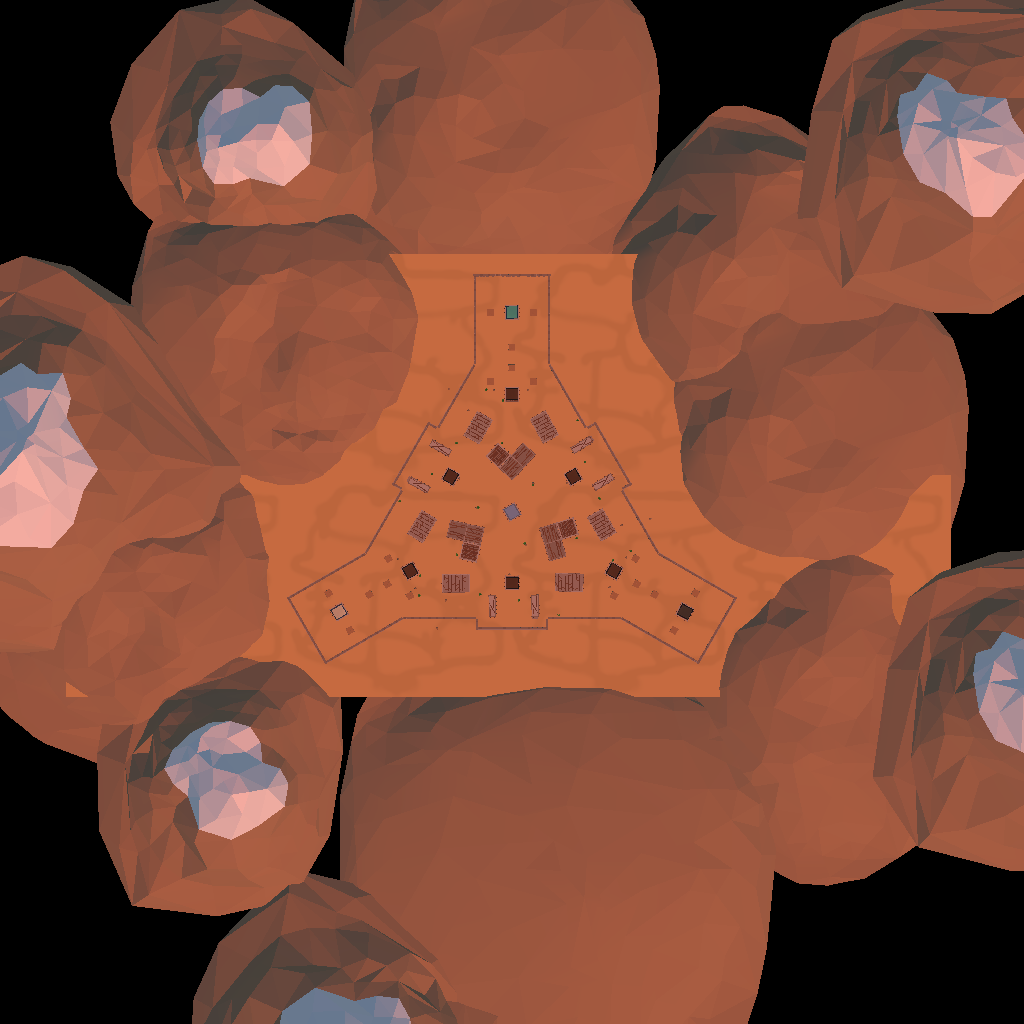
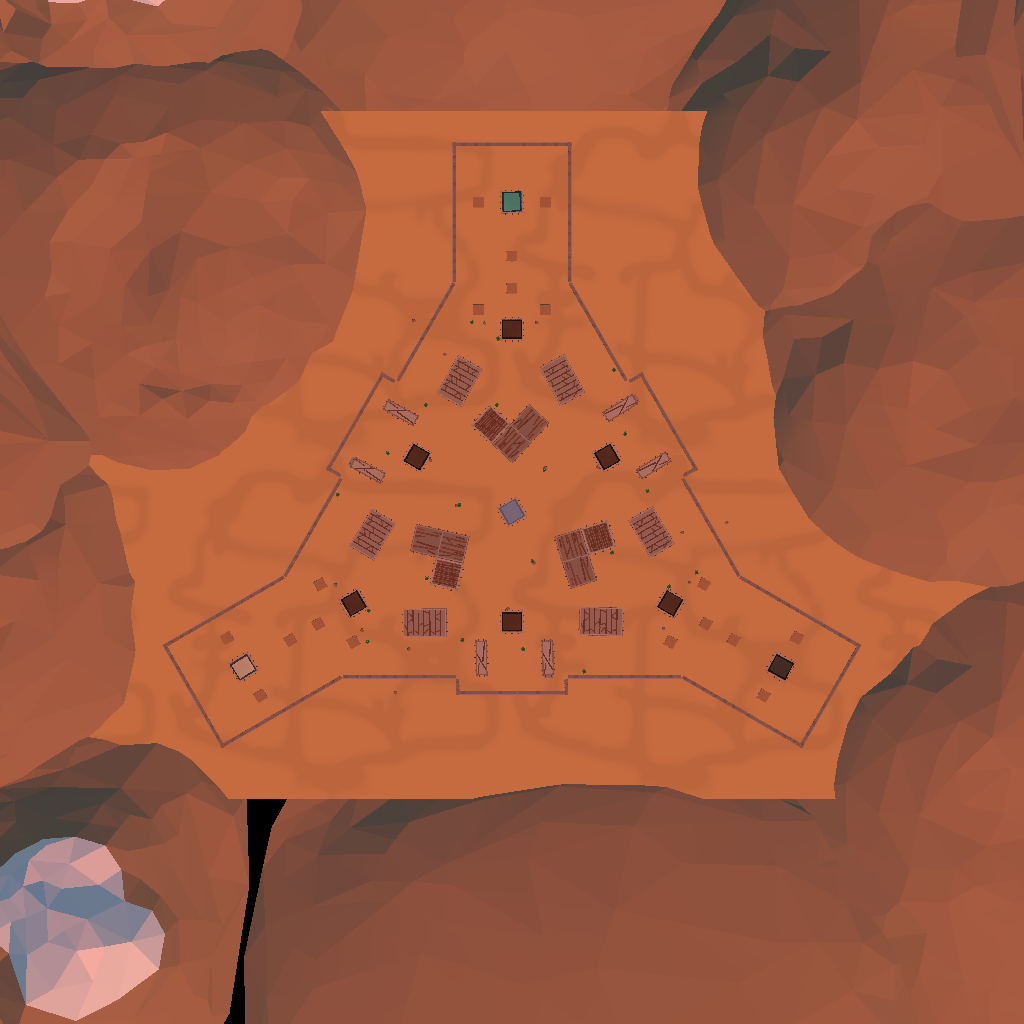
fix(ui): correct the triangular mask's sign, drop the round backdrop (review fix, 2026-09-17)
- MinimapLayout.TriangleCircumradius used +d_i (the vertex direction itself) as the constraint normal; the correct
  outward normal of the edge opposite vertex i is -d_i. The old sign let a point near a vertex force R to roughly
  double what the triangle actually needed, cramming the whole arena into the middle. Tests fixed to pin the
  correct sign (confirmed red under the old sign, green under the new).
- MinimapView no longer draws a round Frame disc behind the triangular mask - nothing shows outside the triangle
  now, only the triangle window and its EdgeTriangle edge.
- Re-baked: MinimapConfig.worldSizeMetres 295.99 -> 190.62 m (triangle circumradius 95.31 m; worldCentre and
  arenaImage GUID unchanged).

diff --git a/Assets/Tests/MinimapLayoutTests.cs b/Assets/Tests/MinimapLayoutTests.cs
@@ -128,35 +128,36 @@ namespace Overpower.Tests
         };
 
         [Test]
-        public void AKnownEquilateralCaseMatchesHandMaths()
+        public void AVertexDirectionPointNeedsRadiusEqualToItsDistance()
         {
-            // A single point straight along vertex 0's own direction, at distance 10: the worst-case reach is along
-            // n0 (dot = 10; dot with n1/n2 is -5), so R = 2*10 + margin.
-            var points = new List<Vector2> { new Vector2(0f, 10f) };
-            Assert.AreEqual(20f, MinimapLayout.TriangleCircumradius(points, EquilateralDirections, 0f), 1e-3f);
-            Assert.AreEqual(24f, MinimapLayout.TriangleCircumradius(points, EquilateralDirections, 4f), 1e-3f);
+            // A point exactly at vertex 0's own direction, distance D out, is the vertex itself: R must reach
+            // exactly D, no more (review fix, 2026-09-17 - the edge opposite a vertex has OUTWARD normal -d_i, not
+            // +d_i; the old sign made this point read as forcing R = 2D instead, twice too big).
+            const float d = 10f;
+            var points = new List<Vector2> { new Vector2(0f, d) };
+            Assert.AreEqual(d, MinimapLayout.TriangleCircumradius(points, EquilateralDirections, 0f), 1e-3f);
+            Assert.AreEqual(d + 4f, MinimapLayout.TriangleCircumradius(points, EquilateralDirections, 4f), 1e-3f);
         }
 
         [Test]
-        public void APointExactlyOnAnEdgeStillMatchesItsNormal()
+        public void AnOppositePointNeedsRadiusTwiceItsDistance()
         {
-            // A point sitting exactly on the (extended) edge opposite vertex 0 - i.e. at inradius distance along n0,
-            // zero along the edge's own direction - still measures correctly via the plain dot product.
-            const float inradius = 6f;
-            Vector2 edgeDirection = new Vector2(1f, 0f); // perpendicular to n0 = (0,1)
-            var points = new List<Vector2> { new Vector2(edgeDirection.x * 3f, inradius) };
-            Assert.AreEqual(12f, MinimapLayout.TriangleCircumradius(points, EquilateralDirections, 0f), 1e-3f);
+            // A point straight OPPOSITE vertex 0 (along -d0), distance D out, touches the edge facing vertex 0 at
+            // exactly its inradius: R/2 = D, so R = 2D.
+            const float d = 10f;
+            var points = new List<Vector2> { new Vector2(0f, -d) };
+            Assert.AreEqual(2f * d, MinimapLayout.TriangleCircumradius(points, EquilateralDirections, 0f), 1e-3f);
         }
 
         [Test]
-        public void ThePointThatForcesRIsWhicheverReachesFarthestOnAnyNormal()
+        public void TheWorstPointAcrossAllCornersAndNormalsForcesRPlusMargin()
         {
-            // Two points: one reaches 5 along n0, the other reaches 9 along n1 - the second one must win, even
-            // though it is not the farthest point from the centre in a plain radius sense (its distance is
-            // Sqrt(9^2 + small) rather than a clean number), because TriangleCircumradius measures per-normal reach,
-            // not overall distance.
-            var points = new List<Vector2> { new Vector2(0f, 5f), new Vector2(-0.8660254f * 9f, -0.5f * 9f) };
-            Assert.AreEqual(18f, MinimapLayout.TriangleCircumradius(points, EquilateralDirections, 0f), 1e-3f);
+            // Two points: one reaches 5 (opposite vertex 0, along -d0), the other reaches 9 (opposite vertex 1,
+            // along -d1) - the second must win despite not being the farthest point from the centre in a plain
+            // radius sense, because TriangleCircumradius measures per-normal reach, not overall distance. The
+            // margin is added once, on top of 2x the winning reach.
+            var points = new List<Vector2> { new Vector2(0f, -5f), new Vector2(0.8660254f * 9f, 0.5f * 9f) };
+            Assert.AreEqual(21f, MinimapLayout.TriangleCircumradius(points, EquilateralDirections, 3f), 1e-3f);
         }
 
         [Test]

diff --git a/Assets/scripts/UI/MinimapLayout.cs b/Assets/scripts/UI/MinimapLayout.cs
@@ -78,22 +78,26 @@ namespace Overpower.UI
             2f * (Mathf.Max(0f, arenaRadiusMetres) + Mathf.Max(0f, marginMetres));
 
         /// <summary>The triangular mask's circumradius (Tudor, 2026-09-17: the mask becomes a triangle, one vertex
-        /// toward each capital): the smallest R such that a point is inside the triangle (p . n_i &lt;= R/2 for
-        /// every inward edge normal n_i) for every given point, plus a margin. Each vertexDirection IS the inward
-        /// normal of the opposite edge (true for an equilateral triangle, guaranteed by ArenaSymmetry's 3-fold
-        /// layout) - n_i = vertexDirections[i], normalised. R = 2 x the worst-case reach (the farthest any point
-        /// extends along any one of the 3 normals), so the inradius (R/2) alone decides the size; the factor of 2
-        /// is the equilateral triangle's fixed circumradius/inradius ratio.</summary>
+        /// toward each capital): the smallest R such that every given point is inside the triangle, plus a margin.
+        /// A point is inside when p . (-d_i) &lt;= R/2 for every vertex direction d_i: the edge OPPOSITE vertex i has
+        /// OUTWARD normal -d_i (true for an equilateral triangle, guaranteed by ArenaSymmetry's 3-fold layout), and
+        /// sits at the inradius R/2. R = 2 x the worst-case reach (the farthest any point extends along any one of
+        /// the 3 outward normals), so the inradius (R/2) alone decides the size; the factor of 2 is the equilateral
+        /// triangle's fixed circumradius/inradius ratio.
+        ///
+        /// Review fix, 2026-09-17: the first version used +d_i (an INWARD-facing test), which is wrong - it let a
+        /// point near a vertex force R to roughly double what the triangle actually needed, since +d_i is the
+        /// normal of the edge ADJACENT to (not opposite) that vertex direction.</summary>
         public static float TriangleCircumradius(IReadOnlyList<Vector2> points, IReadOnlyList<Vector2> vertexDirections, float marginMetres)
         {
             float worstReach = 0f;
             foreach (Vector2 rawDirection in vertexDirections)
             {
-                Vector2 n = rawDirection.normalized;
+                Vector2 outwardNormal = -rawDirection.normalized;
                 float reach = 0f;
                 foreach (Vector2 p in points)
                 {
-                    float along = Vector2.Dot(p, n);
+                    float along = Vector2.Dot(p, outwardNormal);
                     if (along > reach) reach = along;
                 }
                 if (reach > worstReach) worstReach = reach;

diff --git a/Assets/scripts/UI/MinimapView.cs b/Assets/scripts/UI/MinimapView.cs
@@ -341,10 +341,8 @@ namespace Overpower.UI
             root = NewRect("Minimap", canvasGo.transform);
             root.sizeDelta = Vector2.one * theme.minimapCornerSize;
 
-            // The dark disc backdrop stays round on purpose: only the mask itself becomes a triangle (Tudor,
-            // 2026-09-17), so a round frame shows around it, like a triangular window in a round surround.
-            NewImage("Frame", root, GeneratedSprites.Disc, theme.minimapFrameColor, theme.minimapCornerSize + 2f * theme.minimapFrameWidth);
-
+            // No round backdrop (review fix, 2026-09-17): nothing may be visible outside the triangle at all, not
+            // even a dark disc peeking out around it - only the triangle window and its EdgeTriangle frame below.
             // MaskTriangle (512 px, one vertex toward each capital - Tudor, 2026-09-17), not a disc: a UGUI Mask
             // reads its sprite's alpha as a 1-bit stencil test, and the finer source traces a smoother contour
             // before that test runs. viewport itself carries the yaw+base rotation (ApplyYawIfChanged) so the
